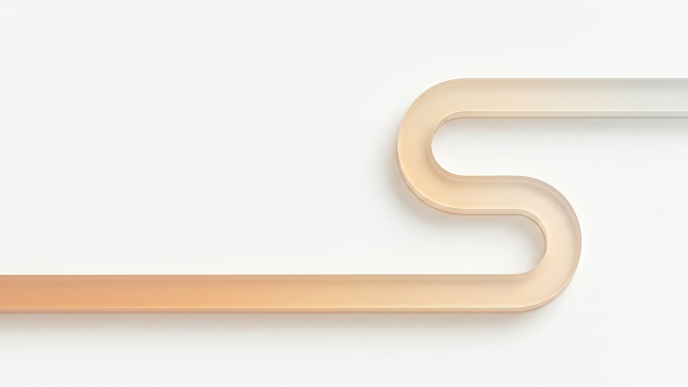
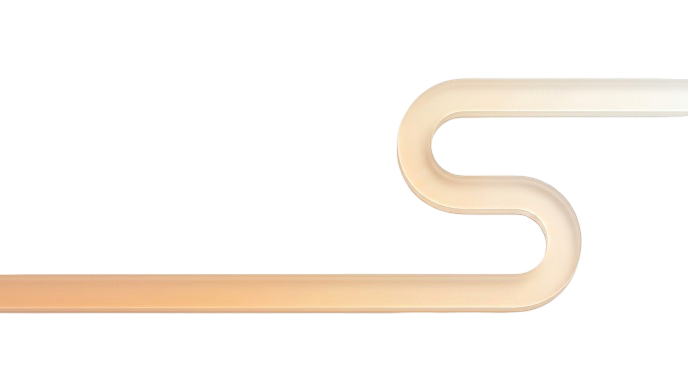
Replace platform-flow image and restore platform header layout
Overwrites assets/platform-flow.png with the new render (same 16:9
dimensions, refined S-curve) and reinstates the previous full-width
backdrop layout: <img> at 100% width, copy absolutely positioned in
the top-left over the empty area of the image. Cards remain below.

Phone falls back to stacked (text above image) for readability.

diff --git a/index.html b/index.html
@@ -481,6 +481,23 @@
 
   /* Features */
   .features { padding: 96px 32px; }
+  /* Header: full-width S-curve image as backdrop, copy overlays top-left */
+  .features-head {
+    position: relative;
+    margin-bottom: 32px;
+  }
+  .features-bg {
+    display: block;
+    width: 100%;
+    height: auto;
+  }
+  .features-copy {
+    position: absolute;
+    top: 8%;
+    left: 4%;
+    max-width: 46%;
+    z-index: 2;
+  }
   .features-grid {
     display: grid; grid-template-columns: repeat(3, 1fr); gap: 24px;
     margin-top: 48px;
@@ -510,7 +527,7 @@
   .features-h {
     font-size: clamp(32px, 4vw, 48px); font-weight: 700;
     letter-spacing: -.025em; line-height: 1.05;
-    margin: 14px 0 0; max-width: 720px;
+    margin: 14px 0 0;
   }
 
   /* Architecture section — "How sealing works" mini moment */
@@ -708,6 +725,8 @@
     .notif.two { left: 0; }
     .notif.three { right: -8px; top: 16px; }
     .features-grid { grid-template-columns: 1fr; }
+    .features-head { margin-bottom: 24px; }
+    .features-copy { top: 6%; left: 4%; max-width: 50%; }
     .trust-row { gap: 32px; font-size: 15px; }
     .trust { padding: 56px 16px 72px; }
     .stats { grid-template-columns: 1fr 1fr; grid-template-rows: 100px 1fr 1fr; }
@@ -1380,6 +1399,14 @@
 
     /* Features */
     .features { padding: 56px 16px; }
+    /* Phone: text stacks above image so it stays readable */
+    .features-head { margin-bottom: 16px; }
+    .features-copy {
+      position: static;
+      max-width: none;
+      top: auto; left: auto;
+      margin-bottom: 24px;
+    }
     .features-grid { gap: 16px; margin-top: 32px; }
     .feature { padding: 22px; }
     .feature-t { font-size: 19px; }
@@ -1722,8 +1749,13 @@
 
 <section class="features">
   <div class="wrap">
-    <div class="features-eb">PLATFORM</div>
-    <h2 class="features-h">Patent-Pending Hard-Blocking Controls<br/>One compliance-enforcement layer.</h2>
+    <div class="features-head">
+      <img class="features-bg" src="assets/platform-flow.png" alt="Continuous compliance enforcement flow" />
+      <div class="features-copy">
+        <div class="features-eb">PLATFORM</div>
+        <h2 class="features-h">Patent-Pending Hard-Blocking Controls<br/>One compliance-enforcement layer.</h2>
+      </div>
+    </div>
     <div class="features-grid">
       <div class="feature">
         <div class="feature-num">01 · ENFORCE</div>